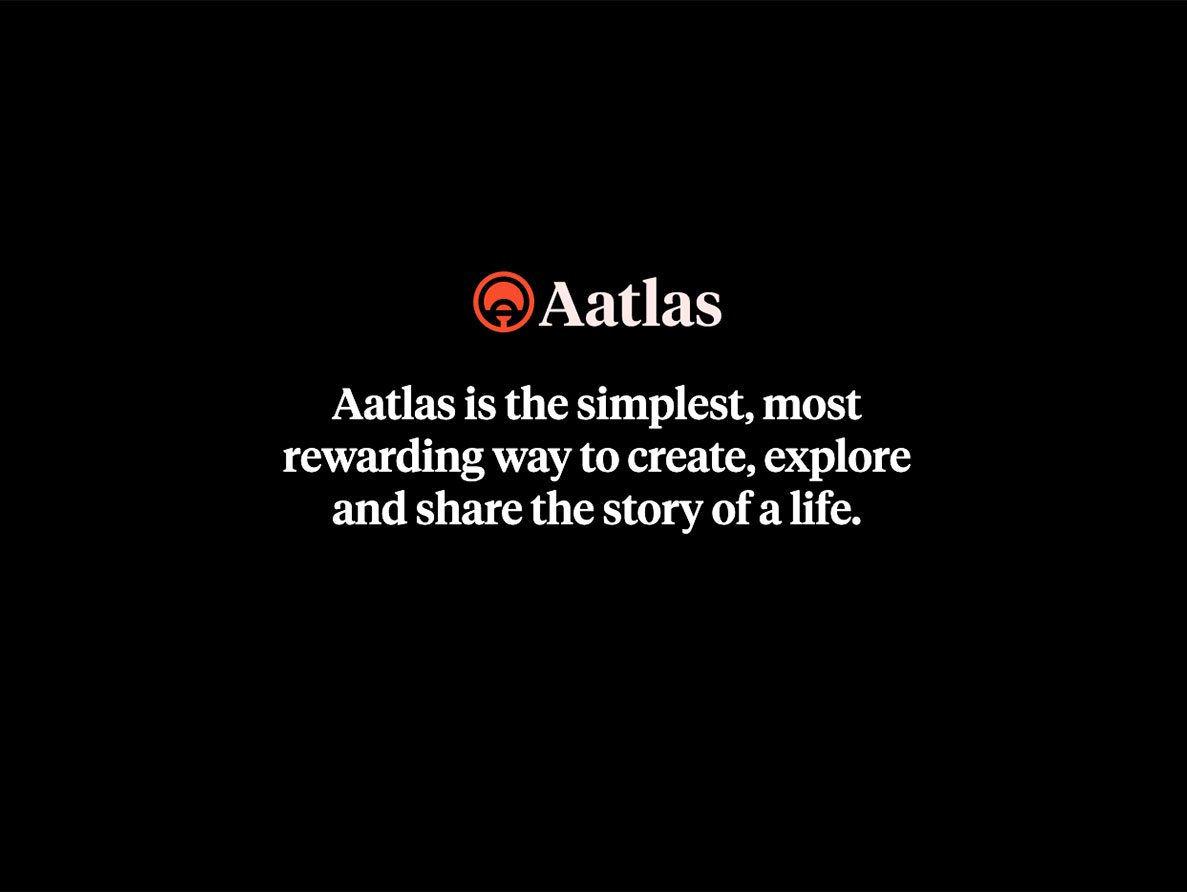
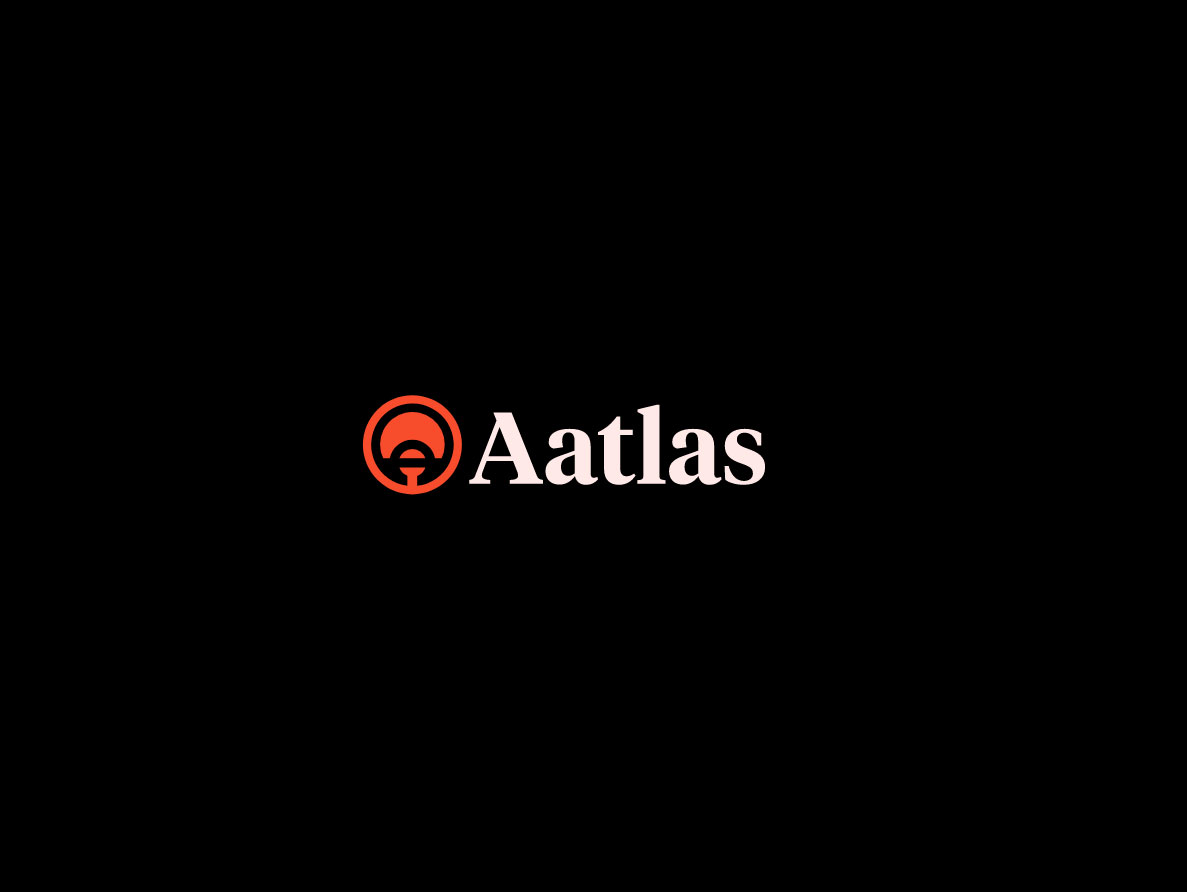
update projects

Changed region(s): [[0.2182, 0.4238, 0.7793, 0.6054], [0.3741, 0.3027, 0.6234, 0.3935]]

diff --git a/components/Projects.vue b/components/Projects.vue
@@ -61,14 +61,14 @@ export default {
         link: "https://breakkonnect.com/",
         previewUrl: "/projects/breakkonnect.jpg",
         description:
-          "A worldwide community of dancers with unique opportunities for organizing breakdance battles. Advance payment and video streaming features."
+          "A worldwide community of dancers with unique opportunities for organizing breakdance battles. Advance payment and video streaming features"
       },
       {
         name: "Aatlas",
         link: "https://www.aatlas.com/",
         previewUrl: "/projects/aatlas.jpg",
         description:
-          "Participated in the development of the Aatlas social media"
+          "Aatlas is the simplest, most rewarding way to create, explore and share the story of a life"
       },
       {
         name: "Android.com",
@@ -82,7 +82,7 @@ export default {
         link: "https://ondemandfitness.app/",
         previewUrl: "/projects/ondemandfitness.jpg",
         description:
-          "Participated in the development of the official website for OnDemand Fitness"
+          "On Demand Fitness is a Mobile app for Apple and Android devices. Helps you to generate and personalize workouts with a few clicks"
       },
       {
         name: "Chrome.com",

diff --git a/components/Contact.vue b/components/Contact.vue
@@ -3,7 +3,9 @@
     <!-- eslint-disable-next-line -->
     <h2 class="section-title">We’re / Hiring</h2>
     <p class="section-subtitle">
-      At the moment, our team requires the following specialists:
+      Would you like to join a club of talented engineers? Solve interesting
+      challenges and collaborate? Study hard and become a superstar developer?
+      Welcome to the club!
     </p>
     <v-container>
       <v-row class="justify-center px-3">
@@ -232,7 +234,8 @@ export default {
         line-height 28px
         padding: 0 20px
         color #CCCCCC
-        margin-bottom 50px
+        max-width: 620px
+        margin: 0 auto 50px
     label
         color red
 </style>
